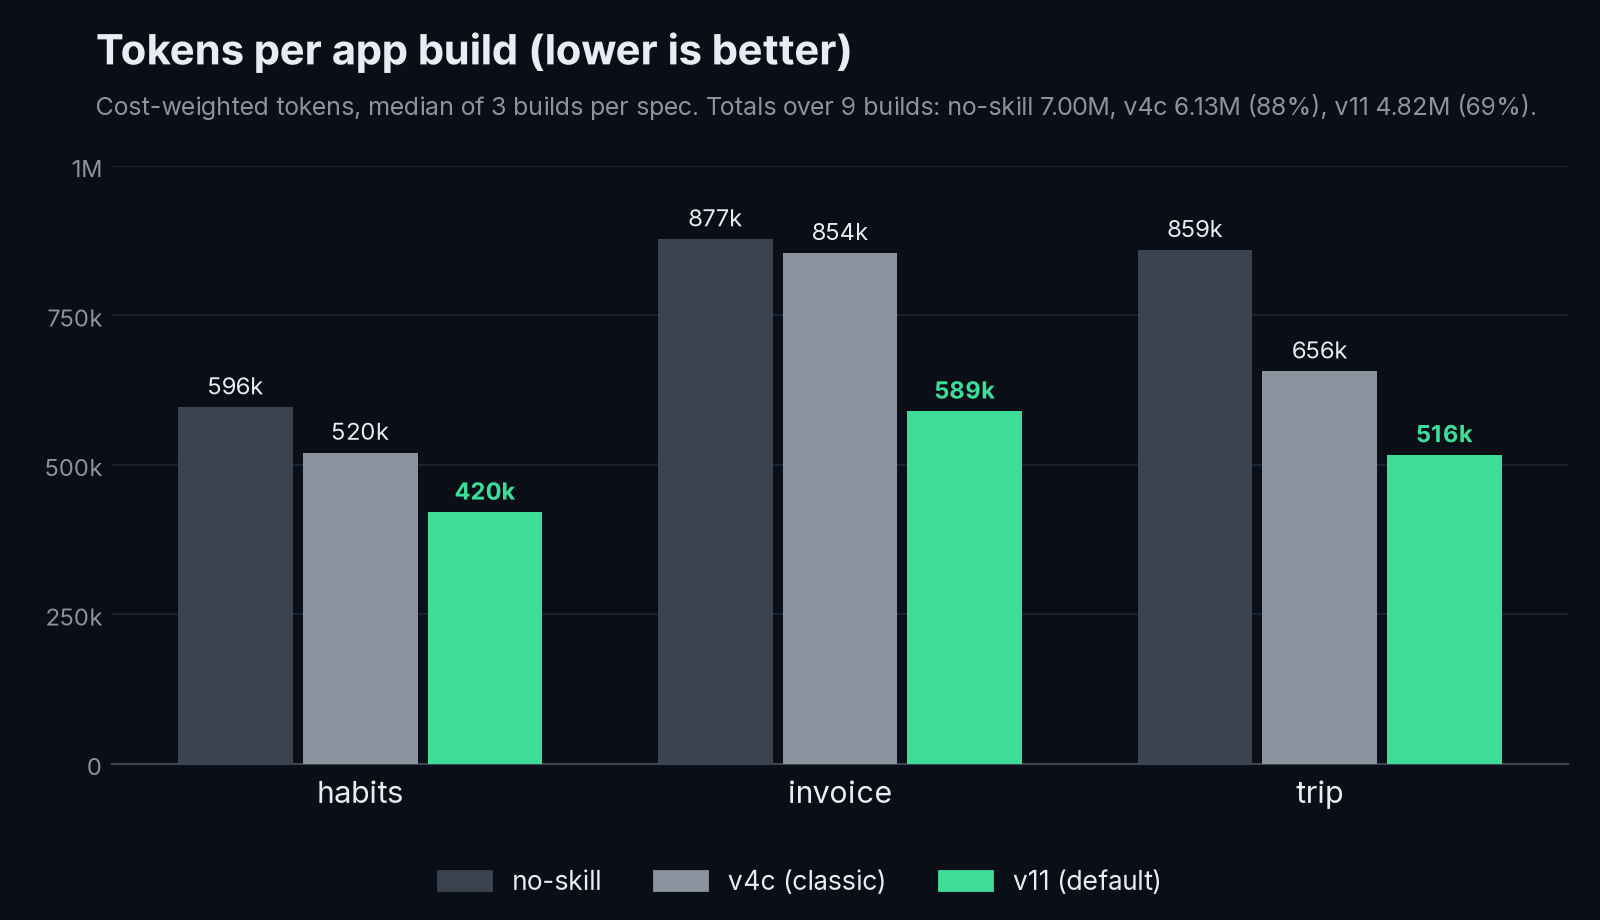
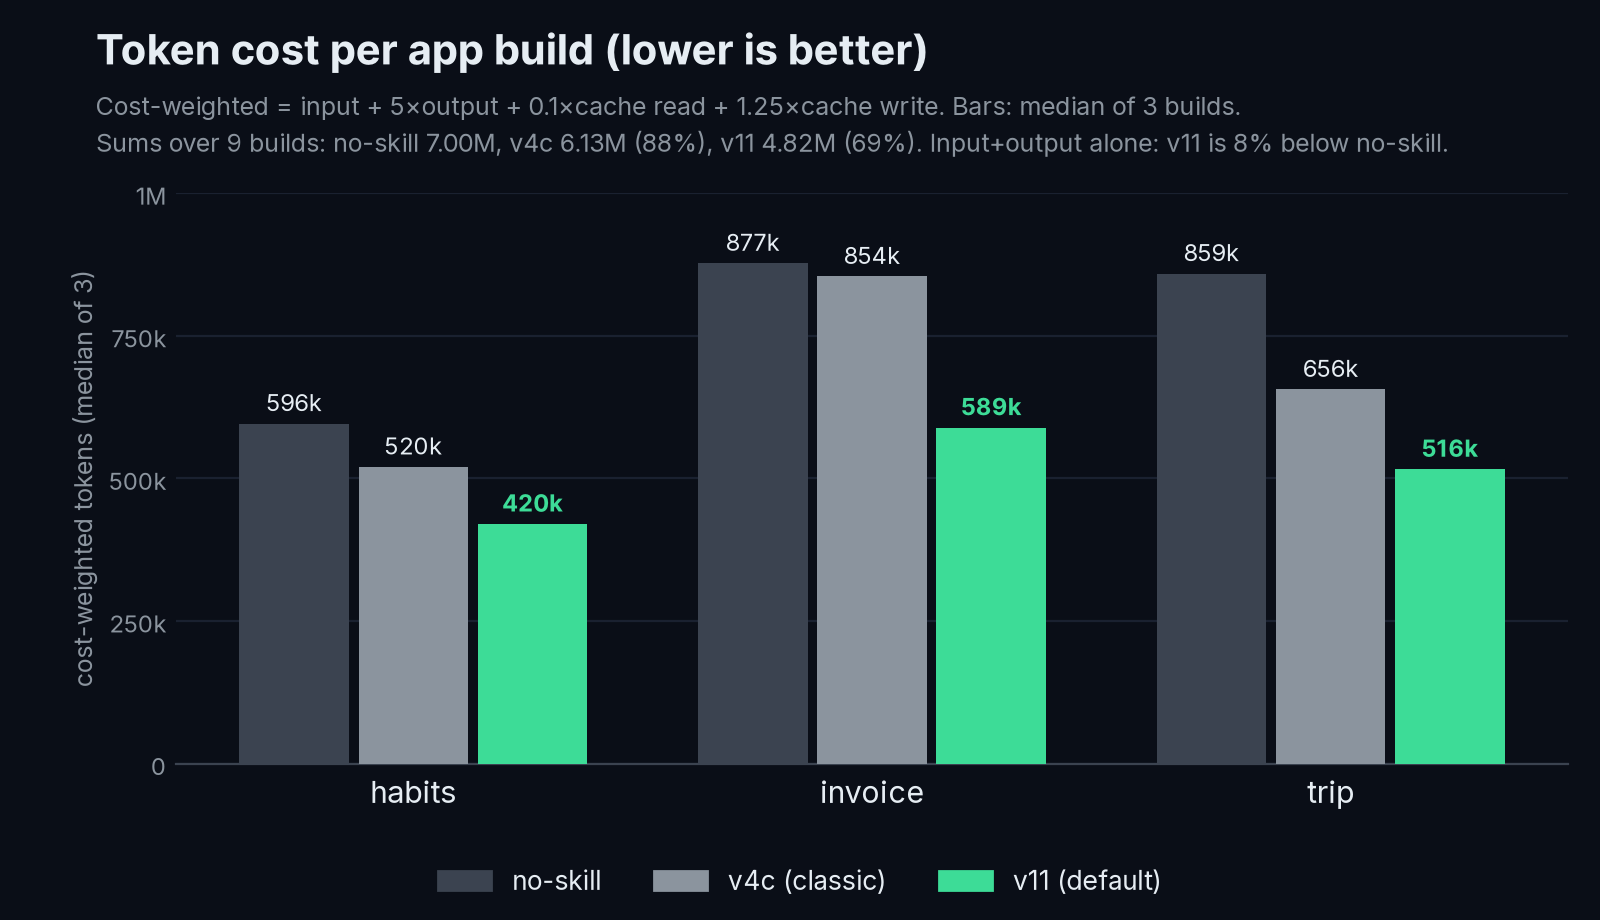
README: state token cost exactly (cost-weighted, sums vs medians, input+output)
The 31% is cost-weighted token cost summed over 9 builds, not raw tokens.
Adds a What's counted box with the formula, sum vs median, and median
input+output and cost-weighted per spec. Input+output alone: v11 is ~8%
below no-skill (0-20% per app). Token chart y-axis now says
'cost-weighted tokens (median of 3)'.

diff --git a/docs/assets/make_charts.py b/docs/assets/make_charts.py
@@ -1,5 +1,6 @@
 """Draws docs/assets/chart_tokens.png and chart_defects.png for the README.
-Data: tokens from results/appv2/*/BUILD_RESULTS.tsv (cost_weighted, median per spec);
+Data: tokens from results/appv2/*/BUILD_RESULTS.tsv (cost_weighted, median of 3 per spec;
+the y-axis says so);
 defects from benchmark/blind/defect_r11/SCORES_r11_ns.jsonl and arms/SCORES_r11_arms.jsonl
 (weighted_score, median per spec) after the label reveal. Numbers are typed in below so the
 chart does not need the sealed key. Run: python docs/assets/make_charts.py"""
@@ -37,10 +38,10 @@ def base(title, lines):
     return fig, ax
 
 
-def finish(fig, ax, top, path):
+def finish(fig, ax, top, path, left=0.07):
     ax.set_xticks(np.arange(3))
     ax.set_xticklabels(SPECS, fontsize=11)
-    fig.subplots_adjust(left=0.07, right=0.98, top=top, bottom=0.17)
+    fig.subplots_adjust(left=left, right=0.98, top=top, bottom=0.17)
     fig.legend(handles=[mp.Patch(color=c, label=k) for k, c in COL.items()], loc="lower center", ncol=3,
                frameon=False, fontsize=9.5, bbox_to_anchor=(0.5, 0.0), labelcolor=FG)
     fig.savefig(path, facecolor=BG)
@@ -48,9 +49,10 @@ def finish(fig, ax, top, path):
 
 
 x, w = np.arange(3), 0.26
-fig, ax = base("Tokens per app build (lower is better)",
-               ["Cost-weighted tokens, median of 3 builds per spec. Totals over 9 builds: "
-                "no-skill 7.00M, v4c 6.13M (88%), v11 4.82M (69%)."])
+fig, ax = base("Token cost per app build (lower is better)",
+               ["Cost-weighted = input + 5×output + 0.1×cache read + 1.25×cache write. Bars: median of 3 builds.",
+                "Sums over 9 builds: no-skill 7.00M, v4c 6.13M (88%), v11 4.82M (69%). "
+                "Input+output alone: v11 is 8% below no-skill."])
 for i, (k, v) in enumerate(TOKENS_K.items()):
     bars = ax.bar(x + (i - 1) * w, v, w * 0.92, color=COL[k], zorder=3)
     for r, val in zip(bars, v):
@@ -59,7 +61,8 @@ for i, (k, v) in enumerate(TOKENS_K.items()):
 ax.set_ylim(0, 1000)
 ax.set_yticks([0, 250, 500, 750, 1000])
 ax.set_yticklabels(["0", "250k", "500k", "750k", "1M"], fontsize=8.5)
-finish(fig, ax, 0.82, os.path.join(OUT, "chart_tokens.png"))
+ax.set_ylabel("cost-weighted tokens (median of 3)", fontsize=9, color=MUTED)
+finish(fig, ax, 0.79, os.path.join(OUT, "chart_tokens.png"), left=0.11)
 
 fig, ax = base("Defect score per app build (lower is better)",
                ["Frozen weighted defect count (blocker 10, major 3, minor 1), median of 3 blind-scored builds.",

diff --git a/README.md b/README.md
@@ -7,15 +7,17 @@
 tightloop is a small skill for coding agents. It is one short `SKILL.md` plus a gate
 script that keeps the agent in a tight loop: look once, write once, run one check,
 fix only what failed, stop. In our benchmark the 1.0 default built the same three
-apps with **31% fewer cost-weighted tokens than an agent with no skill**, and 21%
-fewer than the previous version (v4c). Defect scores stayed near zero for every
-version, though not lower than no-skill. Details and caveats below.
+apps at **~31% lower token cost than an agent with no skill** (cost-weighted, summed
+over 9 builds) and ~21% lower than the previous version (v4c). Counting input+output
+tokens alone, it is ~8% less than no-skill (0-20% per app); most of the saving is in
+cache reads. Defect scores stayed near zero for every version, though not lower than
+no-skill. [What's counted](#whats-counted) and the caveats are below.
 
 **1.0 ships two versions:**
 
 | | what it is | pick it when |
 |---|---|---|
-| **v11** (default) | `.claude/skills/tightloop/` and `AGENTS.md` at the repo root. About 300 tokens. Has a bug-fix mode (proven by the gate) and an app mode (write each file once, syntax-check). | you want the fewest tokens |
+| **v11** (default) | `.claude/skills/tightloop/` and `AGENTS.md` at the repo root. About 300 tokens. Has a bug-fix mode (proven by the gate) and an app mode (write each file once, syntax-check). | you want the lowest token cost |
 | **v4c** (classic) | [`classic/v4c/`](classic/v4c/), opt-in. A 3-call loop that always adds a test that fails without the change. | you want a test with every change |
 
 ## Install
@@ -88,20 +90,45 @@ at a time: 27 builds, 0 retries, 0 voids.
 ### Tokens
 
 <p align="center">
-  <img src="docs/assets/chart_tokens.png" alt="Cost-weighted tokens per spec: v11 lowest on all three specs" width="100%">
+  <img src="docs/assets/chart_tokens.png" alt="Cost-weighted tokens per spec, median of 3: v11 lowest on all three specs" width="100%">
 </p>
+
+### What's counted
+
+> [!NOTE]
+> - **Token cost** is cost-weighted: `input + 5 × output + 0.1 × cache_read + 1.25 × cache_write`,
+>   per build, from the agent CLI's own final usage report as the harness recorded it.
+>   `input` is only the uncached input (tens of tokens per build); almost every prompt
+>   token is billed as a cache read or a cache write.
+> - **Totals** (7.00M / 6.13M / 4.82M, and the ~31% and ~21%) are **sums over the 9 builds**
+>   of each version. **Per-spec numbers are medians of 3 builds.** No means are used.
+> - **Input+output alone** is a much smaller gap: v11 is ~8% below no-skill summed over
+>   9 builds (703k vs 765k), 0-20% per app. Most of the saving is cache reads: the median
+>   v11 build read about 20k tokens from cache, the median no-skill build about 1.8M.
+>
+> | spec (median of 3) | no-skill | v4c (classic) | v11 (default) |
+> |---|---:|---:|---:|
+> | habits: input+output | 60.4k | 65.8k | 60.2k |
+> | habits: cost-weighted | 596k | 520k | 420k |
+> | invoice: input+output | 102.5k | 110.3k | 87.2k |
+> | invoice: cost-weighted | 877k | 854k | 589k |
+> | trip: input+output | 92.9k | 90.5k | 73.9k |
+> | trip: cost-weighted | 859k | 656k | 516k |
+> | **sum of 9: input+output** | 765k | 789k | 703k |
+> | **sum of 9: cost-weighted** | 7.00M | 6.13M | 4.82M |
 
 Cost-weighted tokens, median of 3 builds:
 
 | spec | no-skill | v4c (classic) | v11 (default) |
 |---|---:|---:|---:|
-| habits | 596k | 520k | **420k** |
-| invoice | 877k | 854k | **589k** |
-| trip | 859k | 656k | **516k** |
-| **total, 9 builds** | 7.00M (100%) | 6.13M (88%) | **4.82M (69%)** |
+| habits | 596k | 520k | **420k** (-30%) |
+| invoice | 877k | 854k | **589k** (-33%) |
+| trip | 859k | 656k | **516k** (-40%) |
+| **sum, 9 builds** | 7.00M (100%) | 6.13M (88%) | **4.82M (69%)** |
 
-v11 is the cheapest on all 3 specs. Cost-weighted = input + 5 × output + 0.1 × cache
-read + 1.25 × cache write. Per-build rows, min-max ranges and wall times:
+v11 has the lowest token cost on all 3 specs (percentages are against no-skill). On
+input+output alone it is 0.3% lower on habits, 15% on invoice and 20% on trip. Per-build
+rows, min-max ranges and wall times:
 [`results/appv2/compare/TABLE_r11_3arms.md`](results/appv2/compare/TABLE_r11_3arms.md).
 
 ### Defects
@@ -170,9 +197,10 @@ What this says, honestly:
 
 v4c was tightloop's best version before 1.0 and stays available as an opt-in mode in
 [`classic/v4c/`](classic/v4c/). It finishes a change in 3 tool calls and always adds a
-test that fails without the change, proven by its gate. It cost about 27% more
-cost-weighted tokens than v11 in the app benchmark (6.13M vs 4.82M over 9 builds), and
-had lower defect medians on habits and invoice. Install it in place of the default, not
+test that fails without the change, proven by its gate. In the app benchmark v11's
+token cost was ~21% lower than v4c's (cost-weighted, summed over 9 builds: 4.82M vs
+6.13M; input+output alone ~11% lower, 703k vs 789k), and v4c had lower defect medians
+on habits and invoice. Install it in place of the default, not
 beside it: [`classic/v4c/README.md`](classic/v4c/README.md).
 
 ## History
